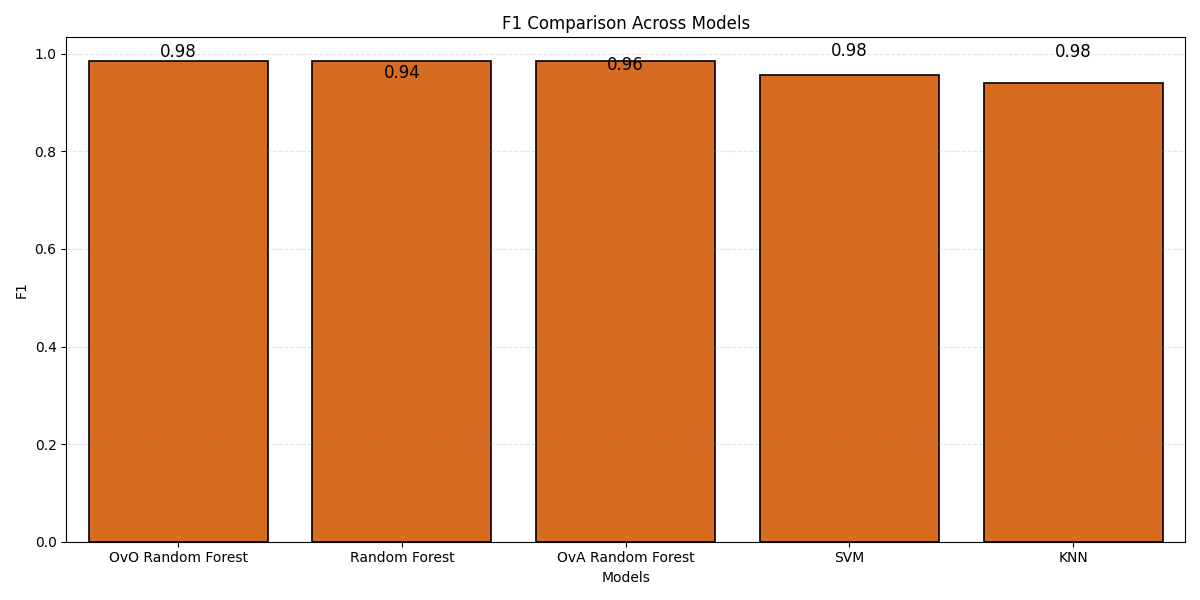
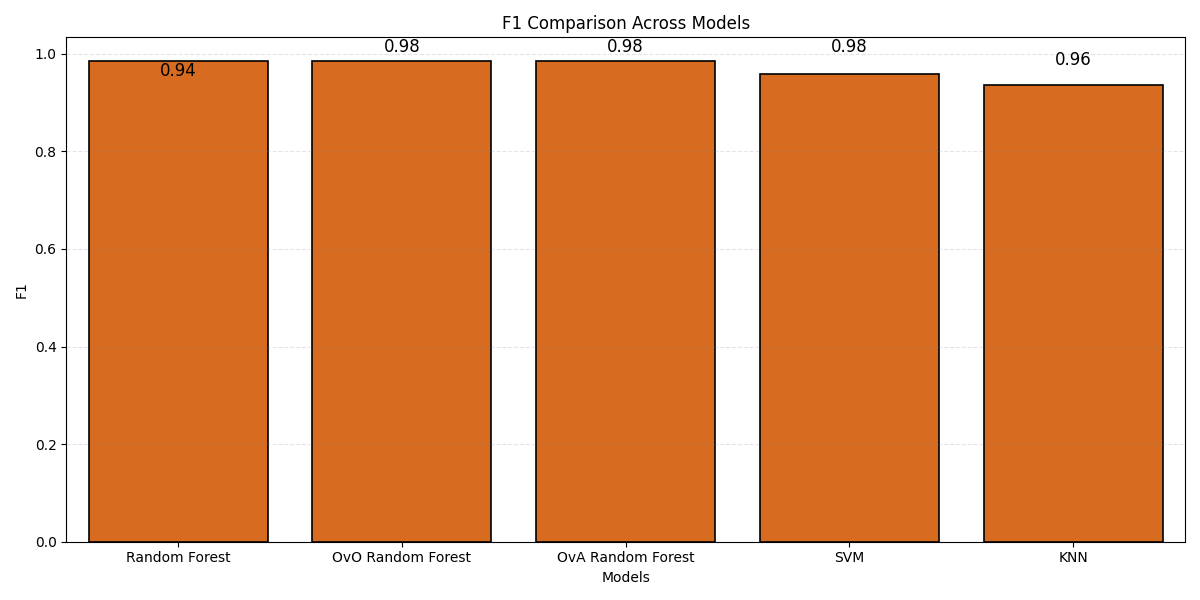
final-final

diff --git a/darknet/src/main.py b/darknet/src/main.py
@@ -10,19 +10,19 @@ from sklearn.neighbors import KNeighborsClassifier
 
 def compare_models(data):
     models = {
-        'Random Forest': RandomForestClassifier(),
         'KNN': KNeighborsClassifier(),
-        'SVM': SVC(),
+        'Random Forest': RandomForestClassifier(),
         'OvO Random Forest': OneVsOneClassifier(RandomForestClassifier(), n_jobs=-1),
         'OvA Random Forest': OneVsRestClassifier(RandomForestClassifier(), n_jobs=-1),
+        'SVM': SVC(),
     }
 
     model_kwargs = {
+        'KNN': {'scaler': RobustScaler(), 'pca': 35},
         'Random Forest': {'scaler': RobustScaler()},
-        'KNN': {'scaler': RobustScaler()}, # it was found that additional PCA only hurts the model
-        'SVM': {'scaler': StandardScaler(), 'pca':30}, # doesn't imrpove after 30. Using standardScaler() because robust completely freezes it
         'OvO Random Forest': {},
         'OvA Random Forest': {},
+        'SVM': {'scaler': StandardScaler(), 'pca':35}, # doesn't imrpove after 30. Using standardScaler() because robust completely freezes it
     }
     
     results = {}

diff --git a/darknet/src/comparison_graphs.py b/darknet/src/comparison_graphs.py
@@ -348,8 +348,12 @@ class ComparisonGraphs:
         plt.xticks(color='white' if darkmode else 'black')
         plt.tick_params(colors='white' if darkmode else 'black')
         
+        y_offset = (ax.get_ylim()[1] - ax.get_ylim()[0]) * 0.01 
+
         for i, v in enumerate(metric_v):
-            ax.text(i, v + 0.01, f"{v:.2f}", ha='center', fontsize=12, color='white' if darkmode else 'black')
+            ax.text(i, v + y_offset, f"{v:.2f}",
+                    ha='center', va='bottom', fontsize=12,
+                    color='white' if darkmode else 'black')
 
         plt.tight_layout()
         plt.savefig(save_path, facecolor='black' if darkmode else 'white', edgecolor='none' if darkmode else 'black')
